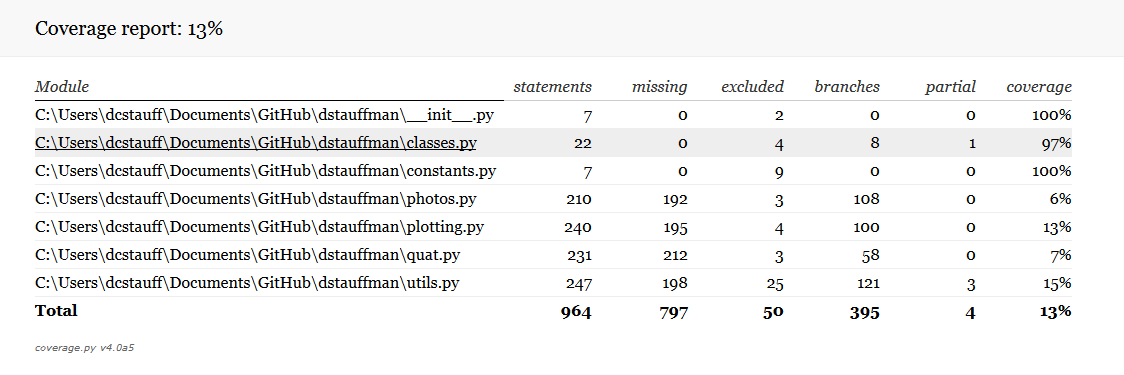
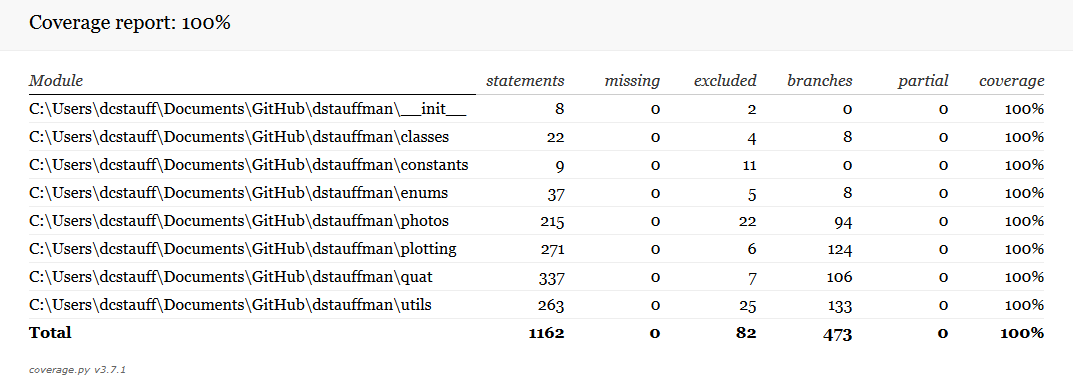
Update code coverage to reflect 100% coverage!

diff --git a/doc/tex/Users_Guide/Users_Guide.tex b/doc/tex/Users_Guide/Users_Guide.tex
@@ -405,8 +405,6 @@ start C:\Users\%username%\Documents\GitHub\dstauffman\tests\coverage_html_report
 
 The report results themselves are not saved within the repository, so you will need to re-run the test to view them.  There is one configuration file at ./dstauffman/tests/.coveragerc that is part of the repository that controls which files are ignored.  For instance, you don't want the test report to show you the coverage results on the tests, but only on the functions they are testing.
 
-You may notice that not all of the code is covered yet.  Some of this is due to the fact that the unittests will slightly lag newly developed code, and some of it is because they are monotonous to create.  Eventually my goal is to cover 100\% of the code base.
-
 \begin{figure}[H]
     \centering
     \includegraphics[width=\textwidth]{Coverage.png}
